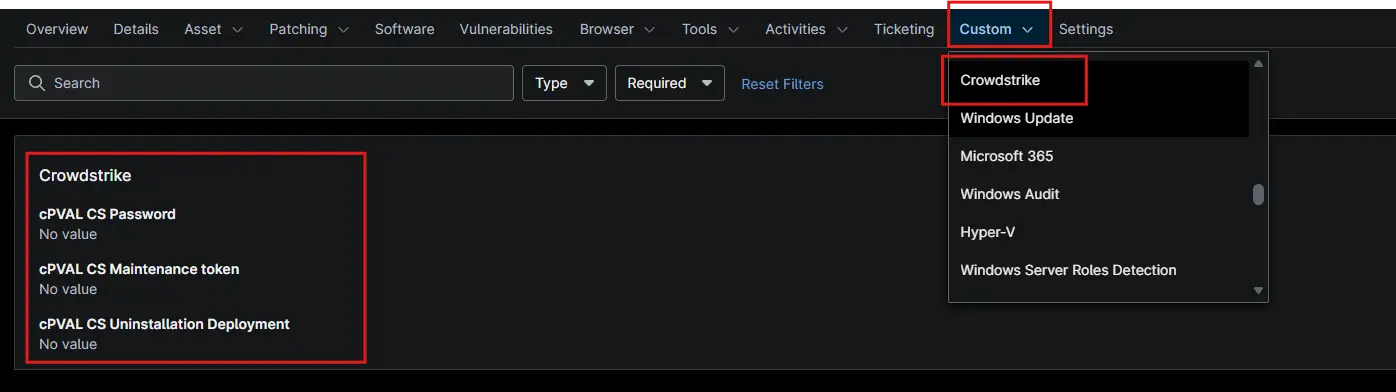
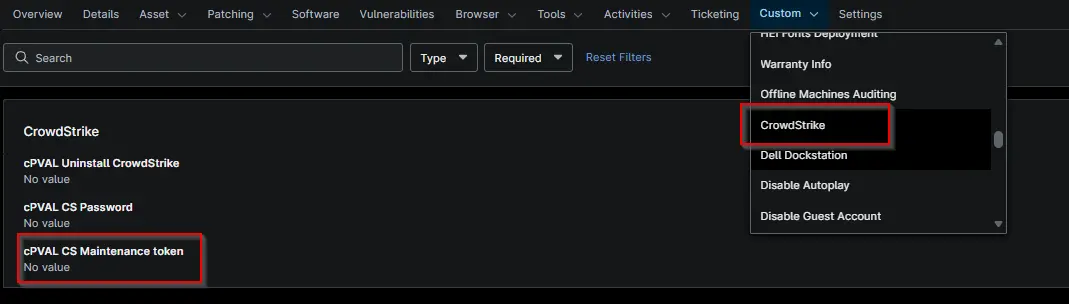
updated

diff --git a/docs/solutions/uninstall-crowdstrike-ninjaone.md b/docs/solutions/uninstall-crowdstrike-ninjaone.md
@@ -103,7 +103,12 @@ A: It transfers the CrowdStrike uninstaller executable to the specified location
 
 **Q: Can the uninstallation process be run on demand?**
 
-A: Yes. The uninstallation automation can be run on demand through NinjaOne, subject to the configured execution settings and deployment permissions.
+A: Yes. The uninstallation automation can be run on demand through NinjaOne. Follow the steps below to perform the uninstallation:
+
+1. Run the **File Transfer** script first to transfer the CrowdStrike uninstaller executable to the specified location on the target machine.
+2. Once the file transfer is complete, run the **Uninstall CrowdStrike** script to uninstall CrowdStrike from the target machine.
+
+**Important:** The File Transfer script must be executed successfully before running the uninstallation script. If the uninstaller executable is not available at the specified location, the uninstallation script will not be able to remove CrowdStrike.
 
 ## Changelog
 

diff --git a/docs/ninjaone/custom-fields/cpval-cs-password.md b/docs/ninjaone/custom-fields/cpval-cs-password.md
@@ -33,7 +33,7 @@ Stores the CrowdStrike Falcon Sensor uninstall password used for authenticated s
 
 ## Sample Screenshot
 
-![Image1](../../../static/img/docs/7542dfd2-1e05-4203-8234-a703e70b6748/Screenshot%202026-10-09%20104025.webp)
+![Image1](../../../static/img/docs/7542dfd2-1e05-4203-8234-a703e70b6748/customfield.webp)
 
 ## Changelog
 
